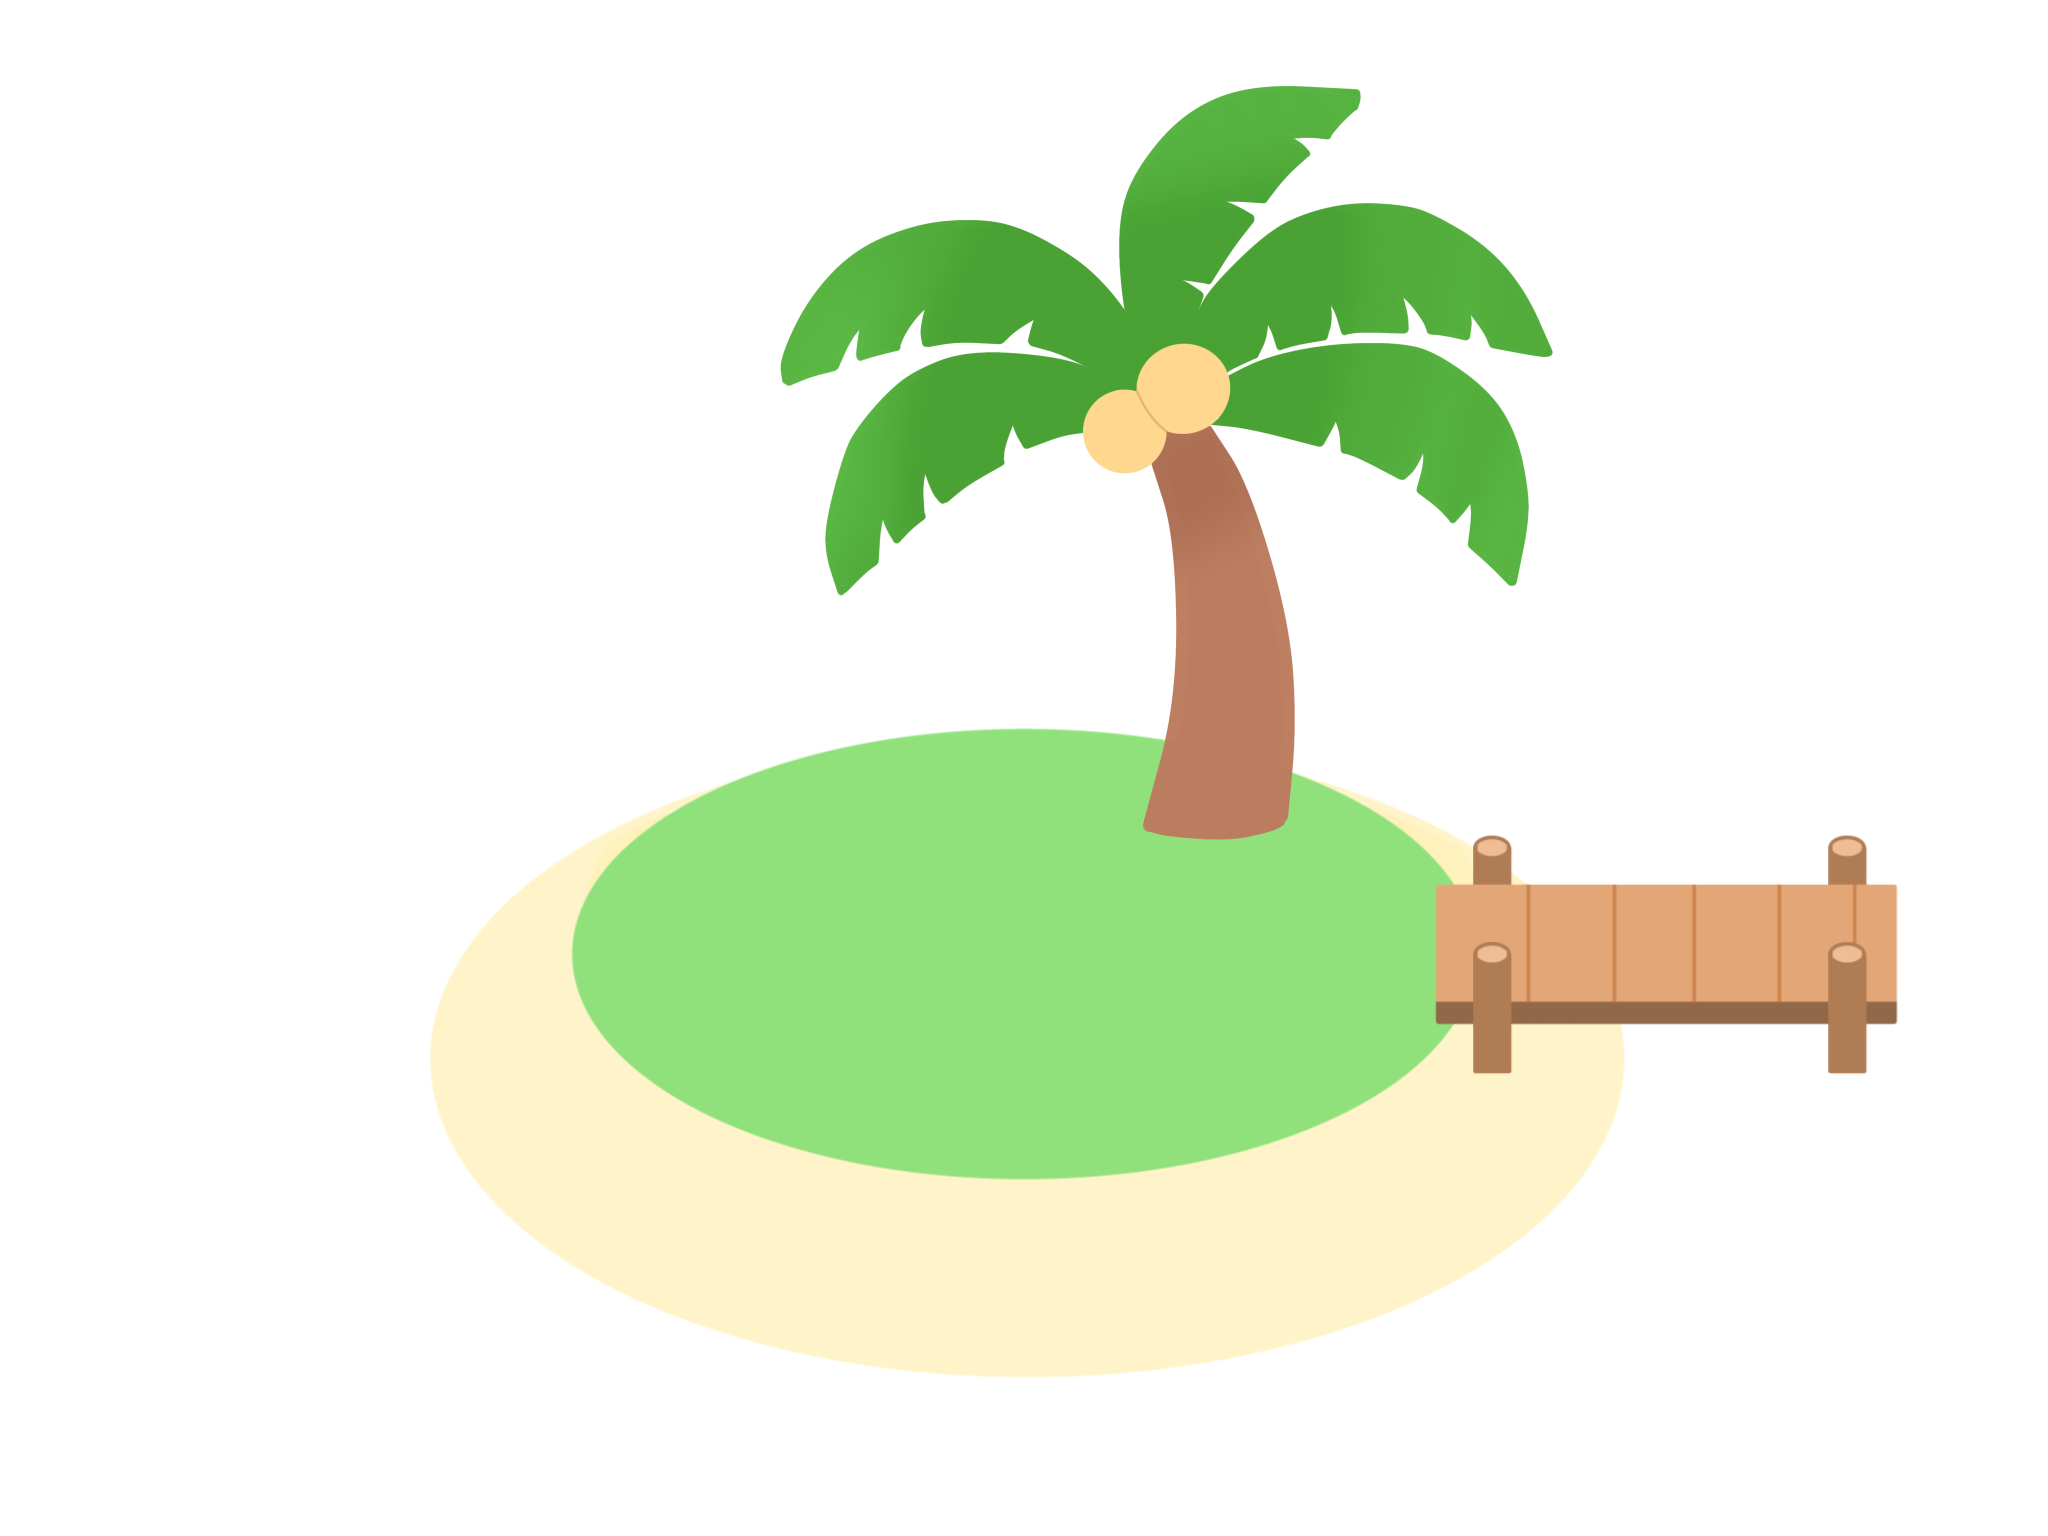
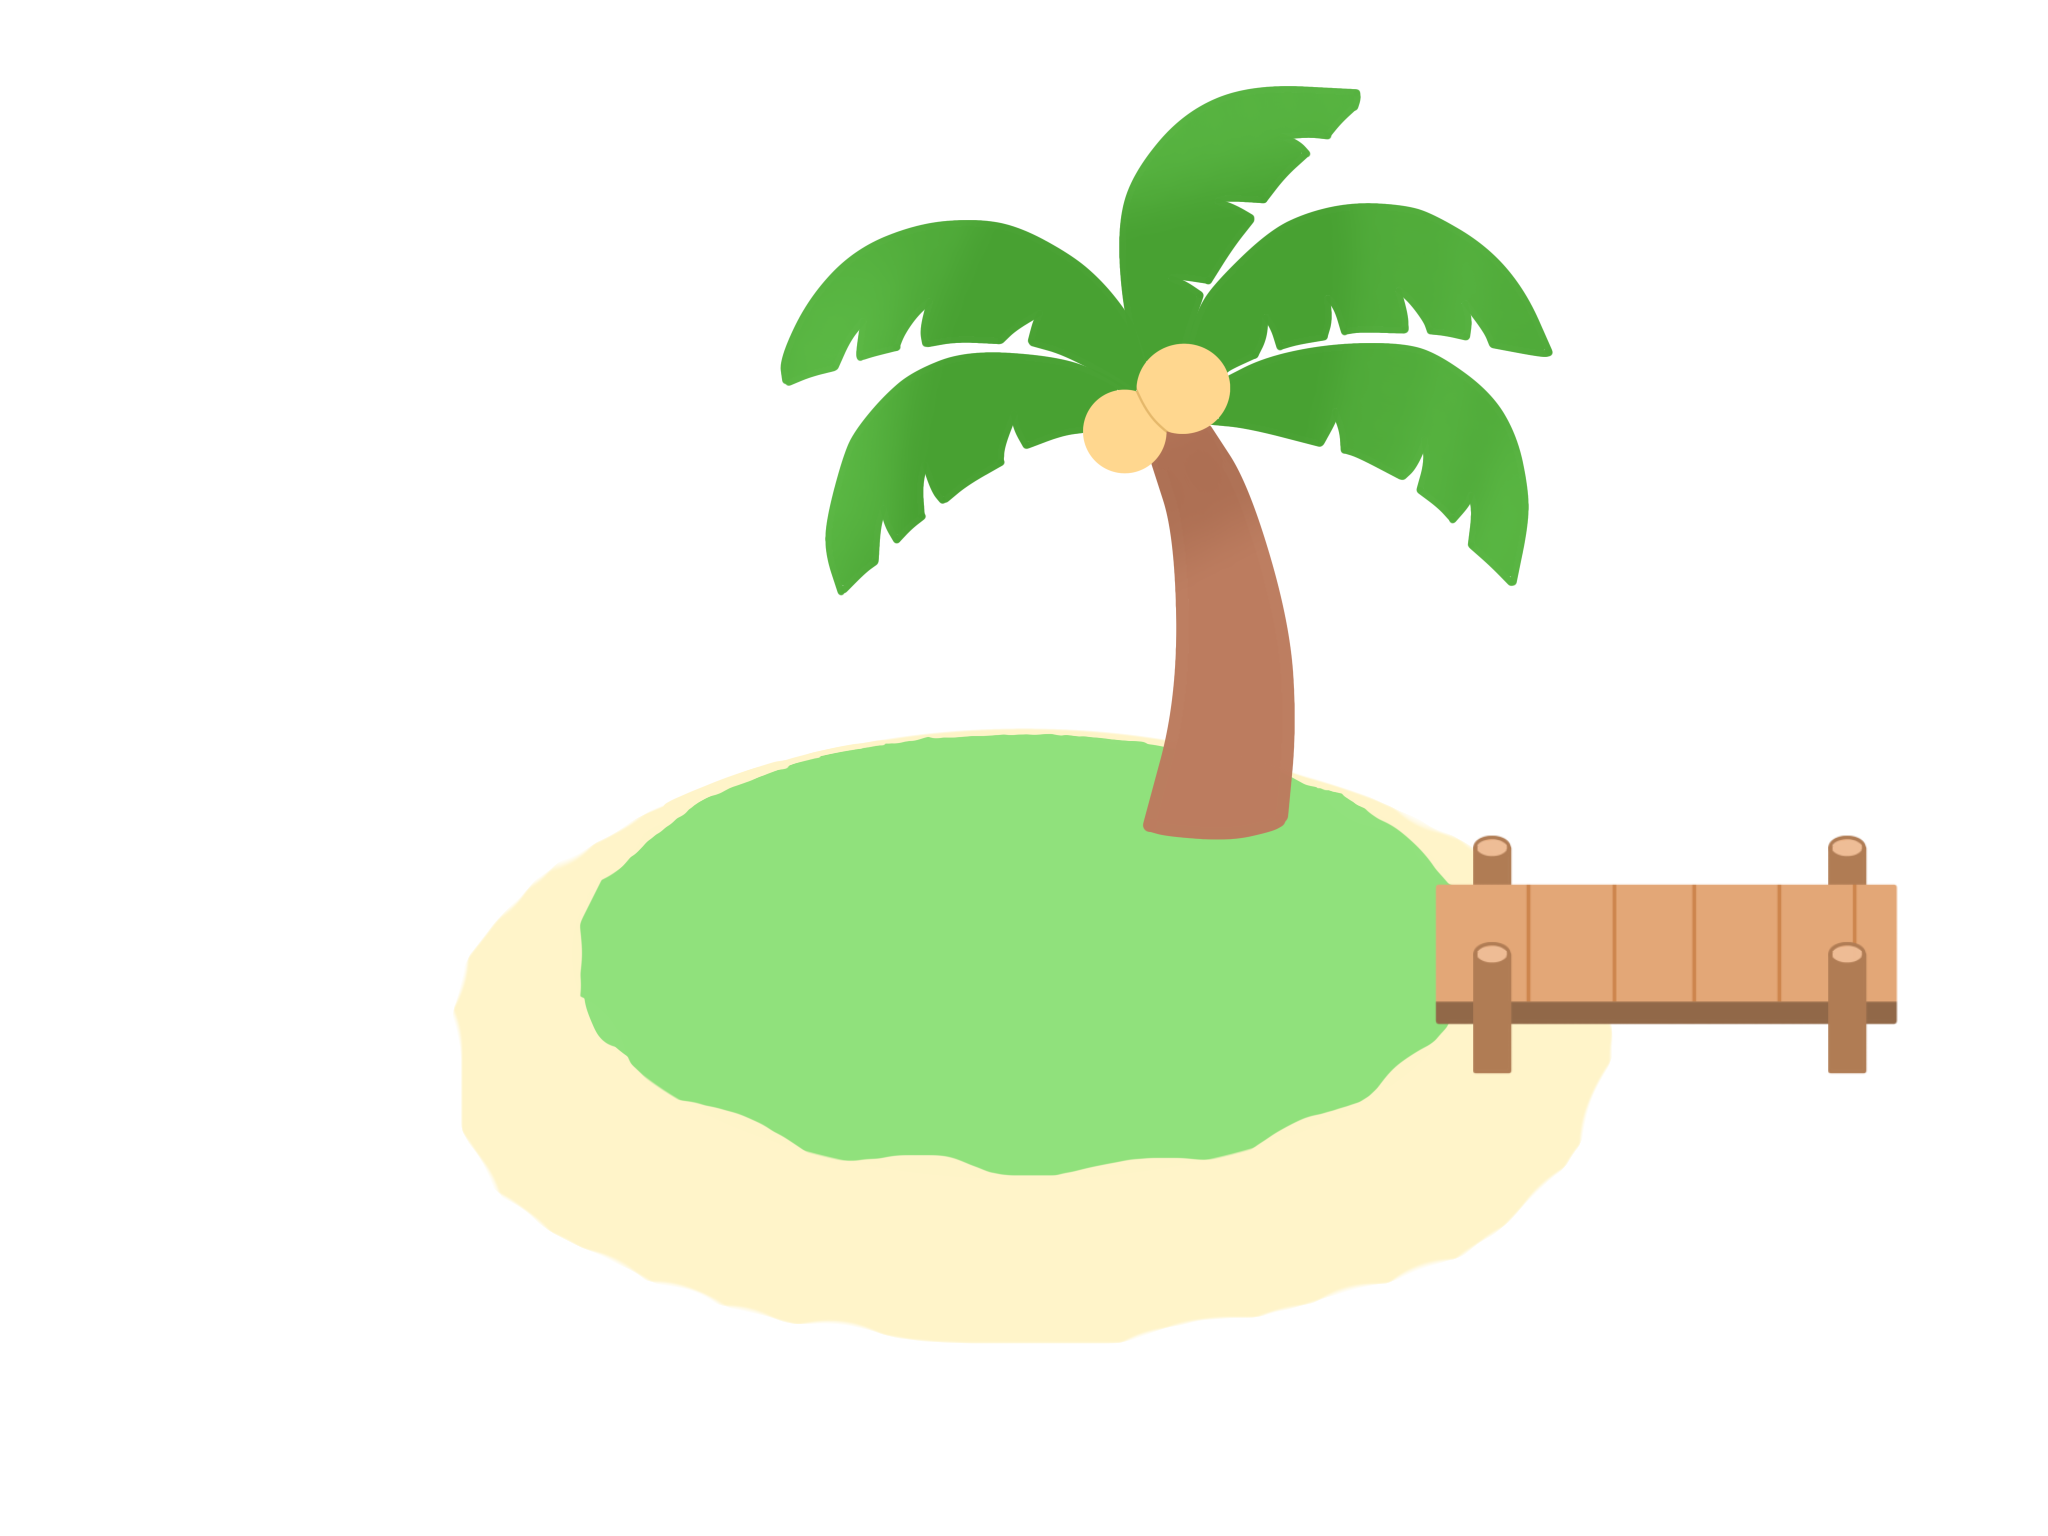
リボンとボトルの位置関係調整

diff --git a/frontend/src/Workspace/WorkspaceScene.jsx b/frontend/src/Workspace/WorkspaceScene.jsx
@@ -11,8 +11,8 @@ const BOTTLE_IMAGE_BY_GENRE = {
   その他: 'bottleWhiteMsg.png',
 };
 const RIBBONS = [
-  { id: 'red', label: '赤いリボン', image: 'ribbonRed.png' },
-  { id: 'blue', label: '青いリボン', image: 'ribbonBlue.png' },
+  { id: 'red', label: '赤いリボン', image: 'ribbonRed.png', bottleImage: 'ribbonRedBo.png' },
+  { id: 'blue', label: '青いリボン', image: 'ribbonBlue.png', bottleImage: 'ribbonBlueBo.png' },
 ];
 
 export default function WorkspaceScene({ onBack }) {
@@ -86,7 +86,7 @@ export default function WorkspaceScene({ onBack }) {
               {selectedRibbon && (
                 <img
                   className="workspace-bottle-ribbon"
-                  src={`/images/${selectedRibbon.image}`}
+                  src={`/images/${selectedRibbon.bottleImage}`}
                   alt=""
                 />
               )}

diff --git a/frontend/src/Workspace/WorkspaceScene.css b/frontend/src/Workspace/WorkspaceScene.css
@@ -103,24 +103,13 @@
 .workspace-bottle-image,
 .workspace-bottle-ribbon {
   position: absolute;
+  inset: 0;
   display: block;
+  width: 100%;
+  height: 100%;
   object-fit: contain;
   pointer-events: none;
   user-select: none;
-}
-
-.workspace-bottle-image {
-  inset: 0;
-  width: 100%;
-  height: 100%;
-}
-
-.workspace-bottle-ribbon {
-  top: 4%;
-  left: 20%;
-  width: 60%;
-  height: auto;
-  aspect-ratio: 4 / 3;
 }
 
 .workspace-genre-section,
